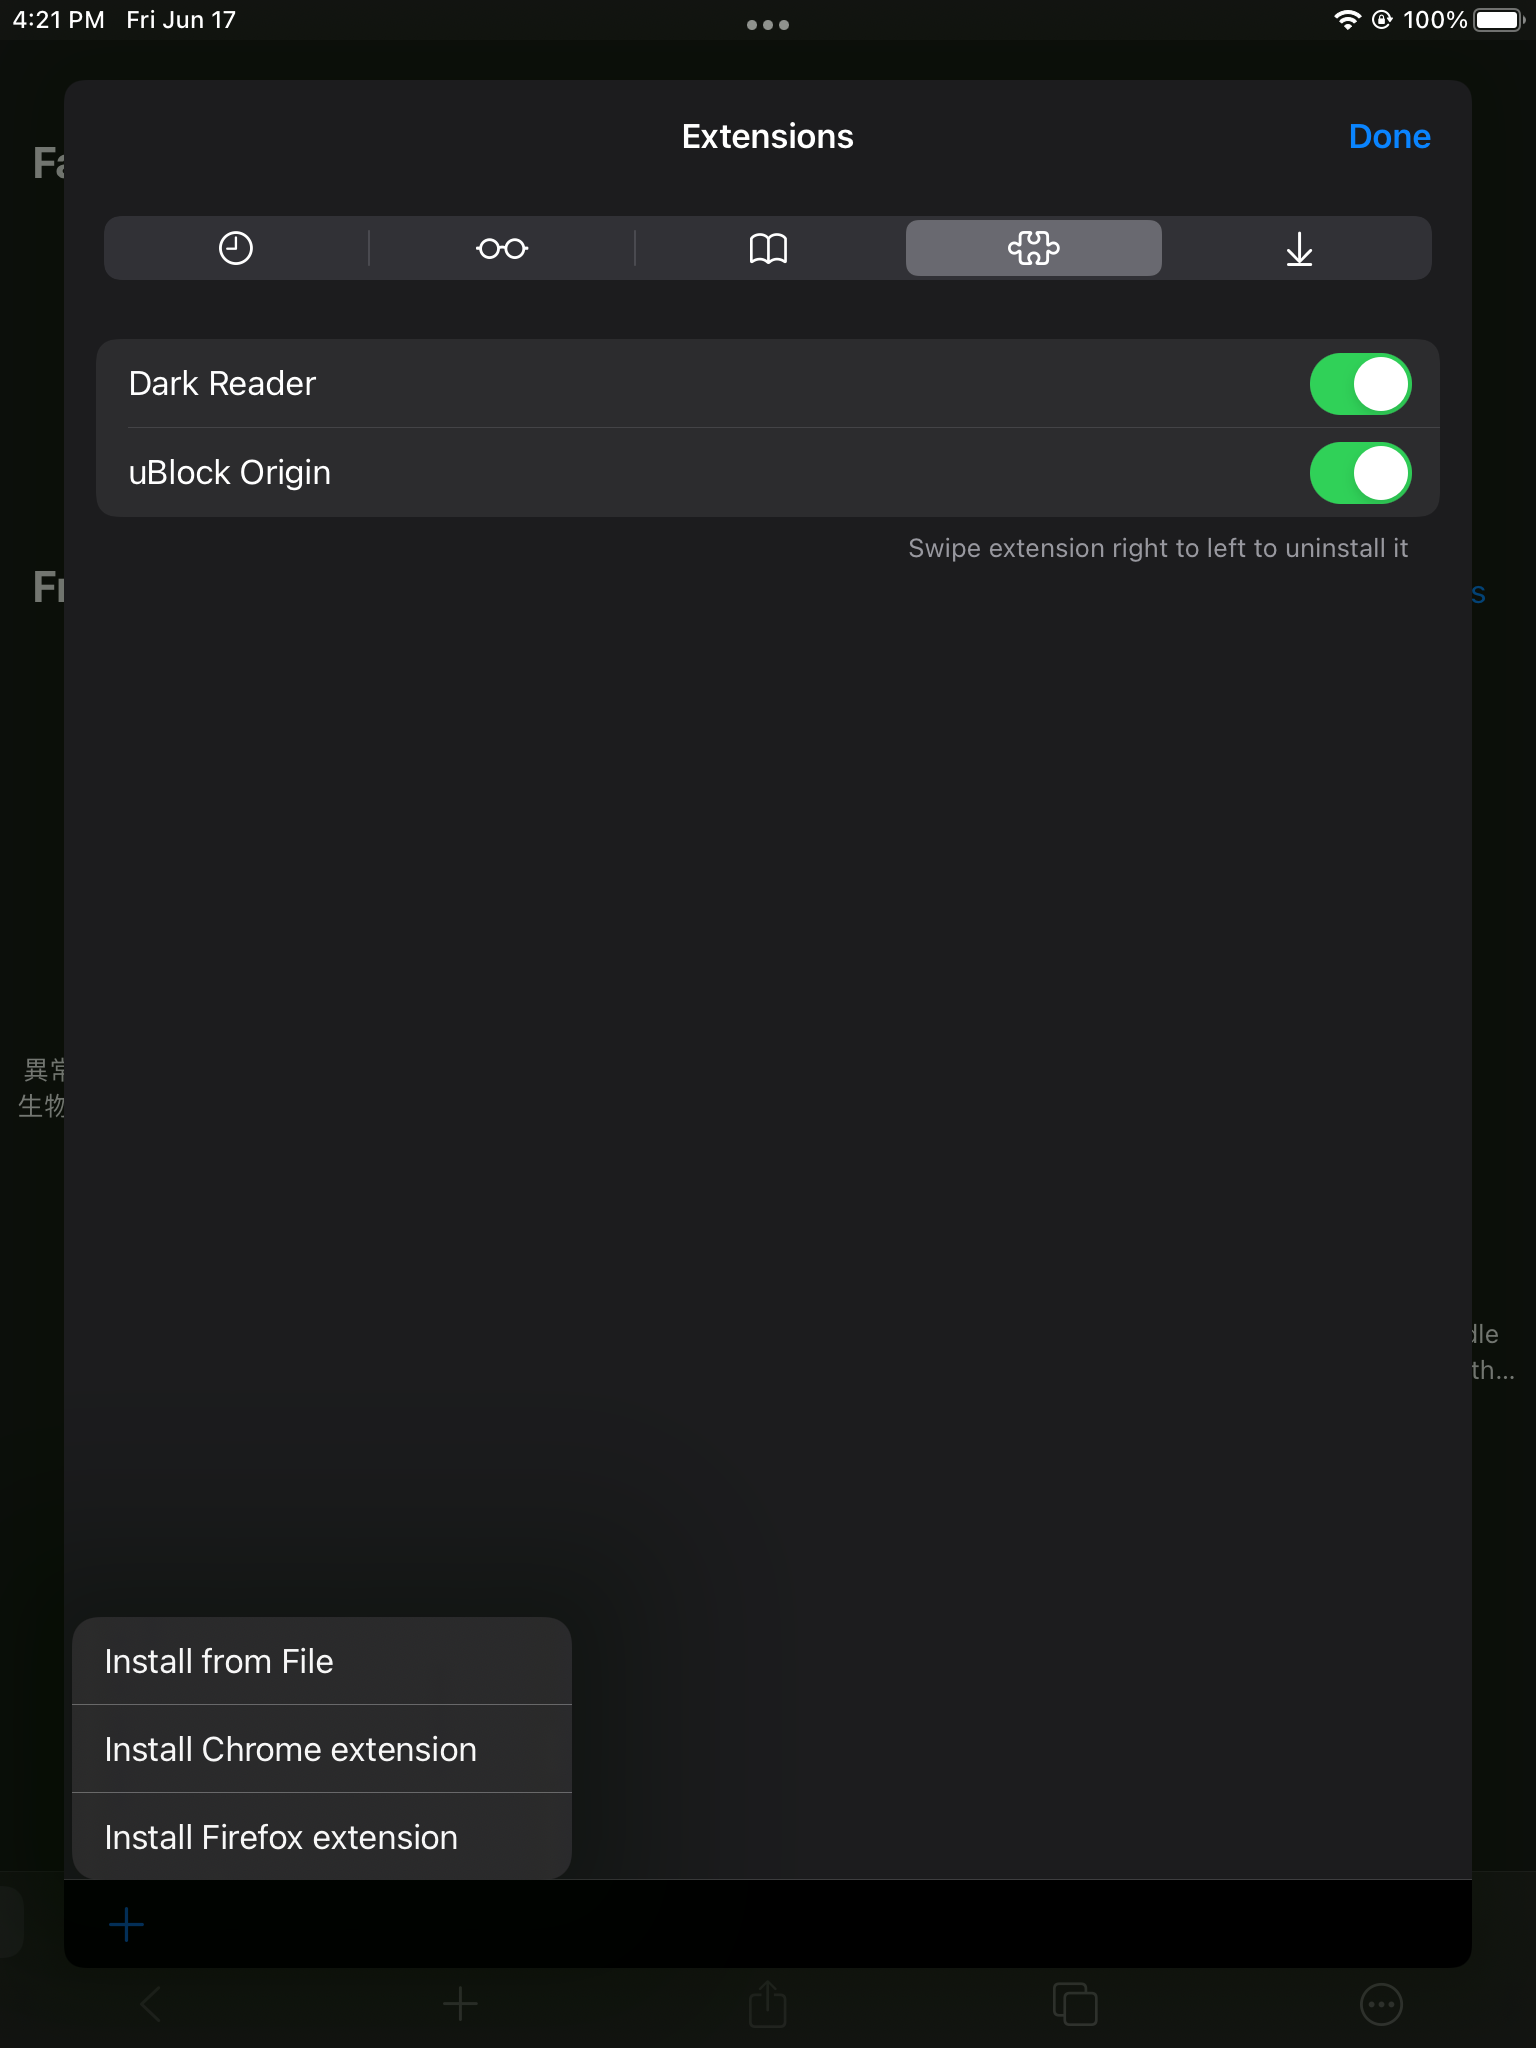
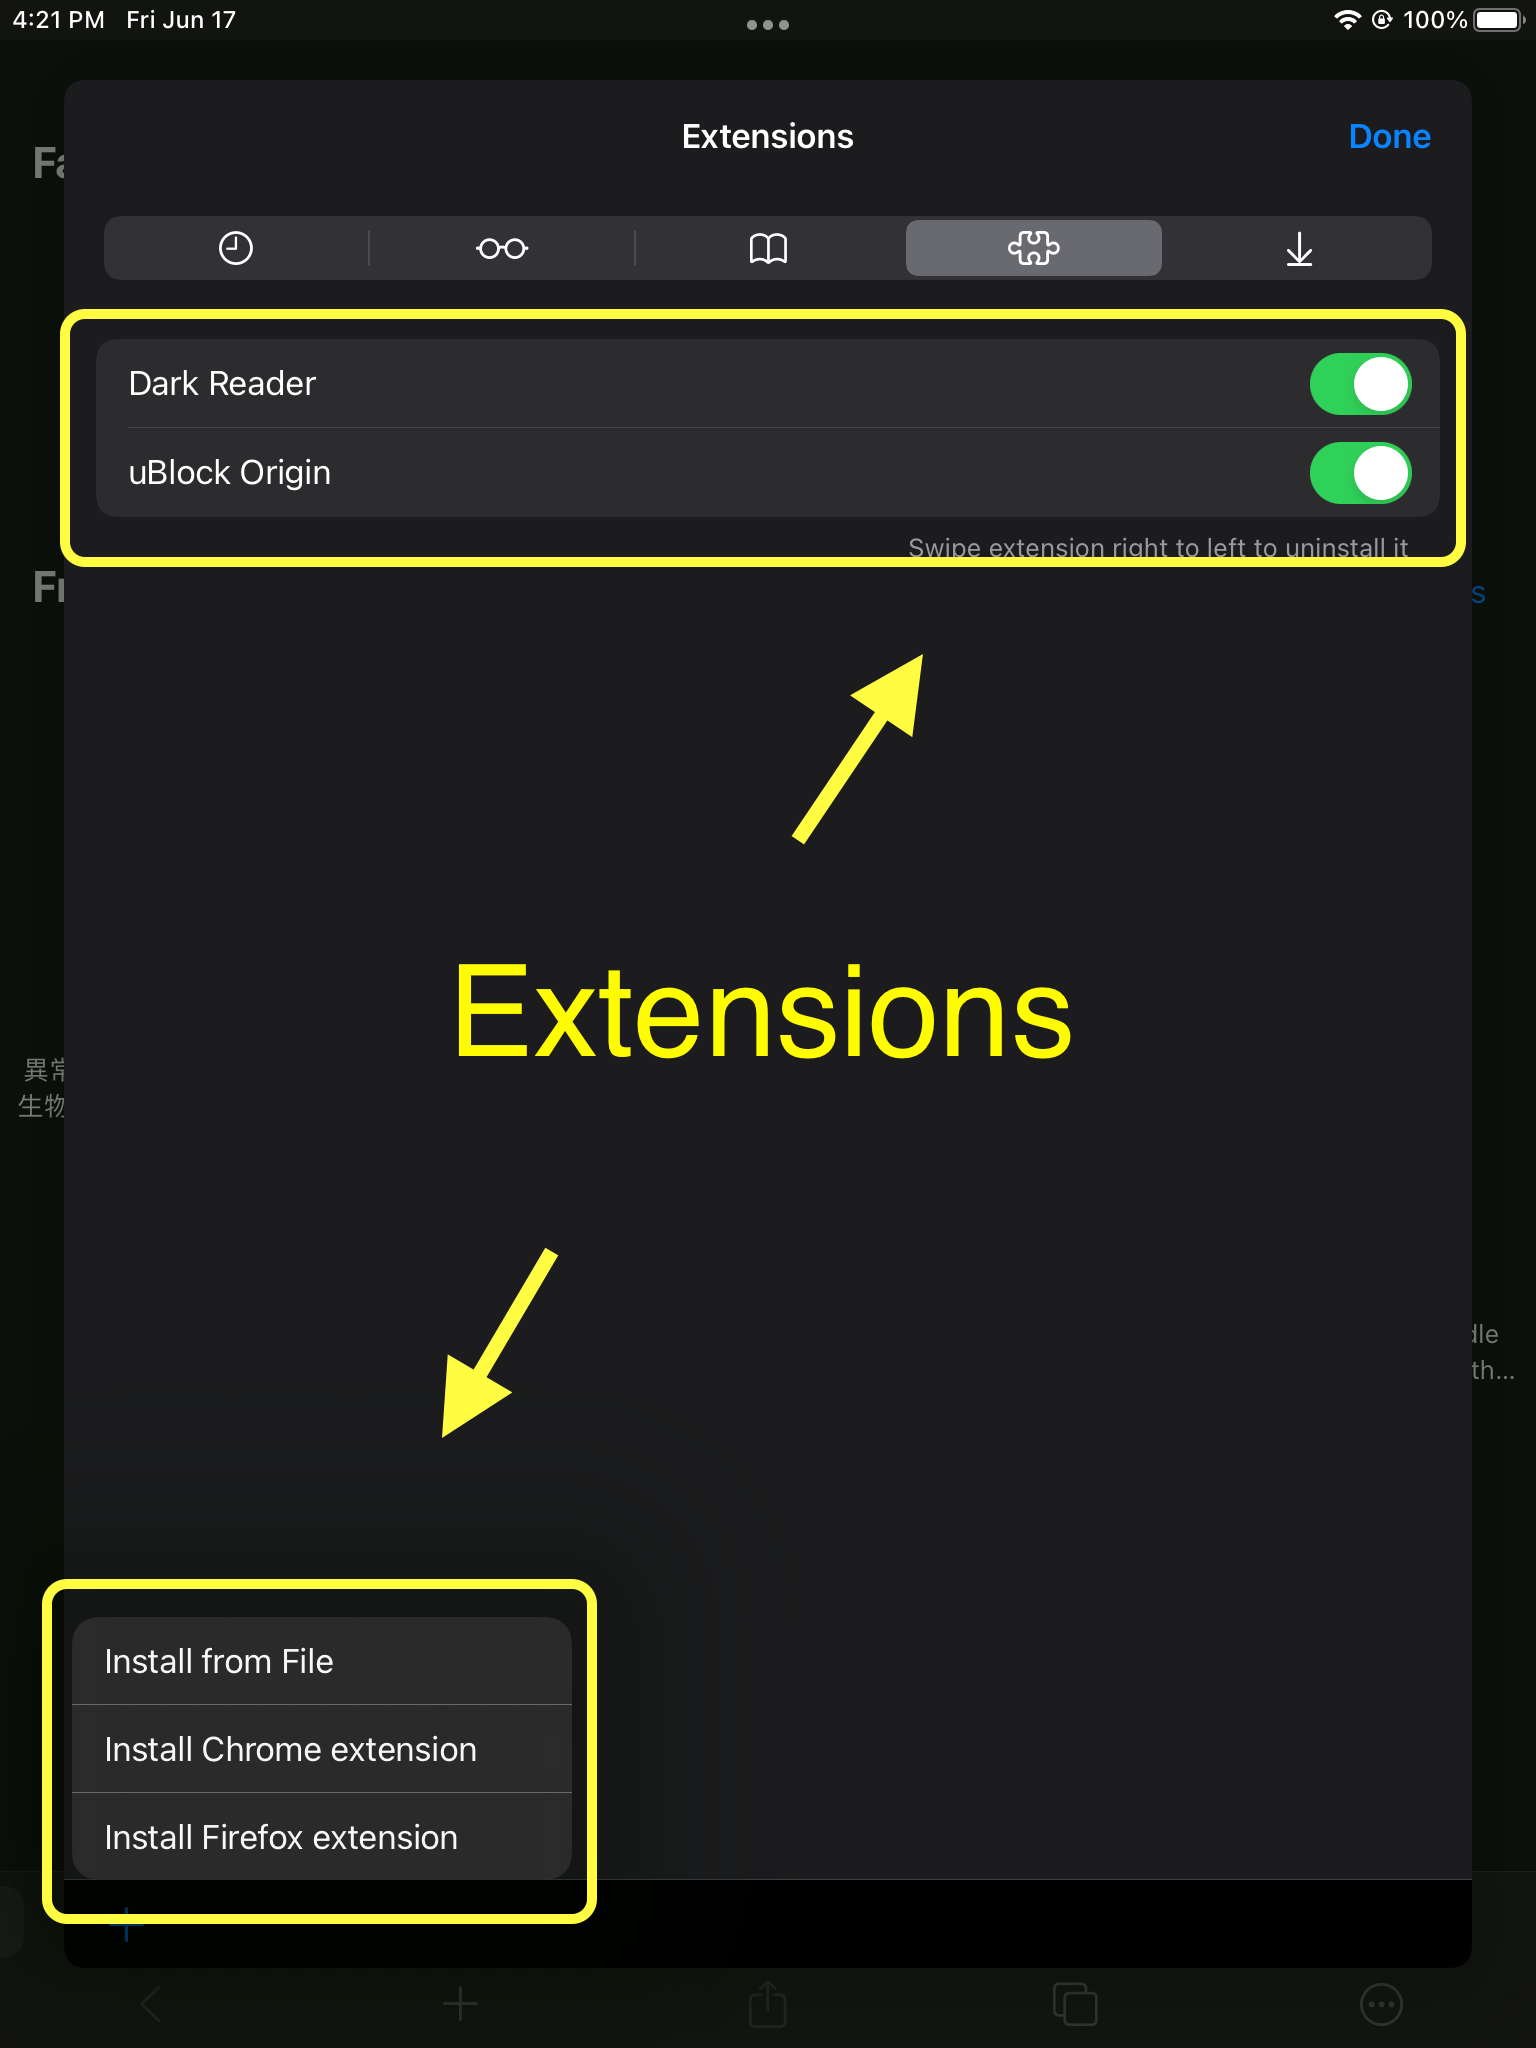
update

diff --git a/content/blog/macos-orion.md b/content/blog/macos-orion.md
@@ -1,29 +1,29 @@
 ---
 author: "John Siu"
 date: 2022-06-14T13:03:57-04:00
-description: "Alternative Orion browser for MacOS, iPhone and iPad."
-tags: ["macos","ipad","iphone","orion","browser"]
+description: "Alternative Orion browser for MacOS, iPhone and iPad supporting extensions."
+tags: ["macos","ipad","iphone","orion","browser","extension"]
 title: "Orion Browser for Mac, iPhone and iPad"
 type: "blog"
 ---
-Alternative browser for MacOS, iPhone and iPad.
+Alternative browser for MacOS, iPhone and iPad supporting extensions.
 <!--more-->
 
 ### Browsers for Apple Products
 
 If you spend a little bit of time searching, you will see there are lots of browsers other than Safari, Chrome, Firefox and Edge for MacOS. And a little less for iPhone and iPad.
 
-Issue for the later two are most of those alternate browsers don't support extension/add-on. Almost all of them are just using the Safari engine come with the device. My iPad was collecting dust for years because I am a person can't live without browser extensions.
+Issue for the later two are most of those browsers don't support extension/add-on. Almost all of them are just using the Safari engine come with the device. My iPad was collecting dust for years because I am a person can't live without browser extensions.
 
 Things changed when I was invited to close beta testing of the Orion browser in 2021.
 
 ### What So Special about Orion
 
-Yes, Orion support extension from both Firefox and Chrome web store, for both Apple desktop and mobile devices! This completely revived my iPad.
+Yes, Orion support extension from both Firefox and Chrome web store, for both Apple desktop and mobile devices! This completely revived my iPad. Following is screenshot from iPad.
 
 ![Orion Extension](//raw.githubusercontent.com/J-Siu/johnsiu.com/master/static/img/macos-orion.png)
 
-There were lot of rough edges when I first join the beta program, but now it is very mature and I switched my default browser on all my Apple devices from Firefox.
+There were lot of rough edges when I first join the beta program, but now it is very mature and I switched my default browser on all my Apple devices to Orion.
 
 ### Other Features Highlight
 
